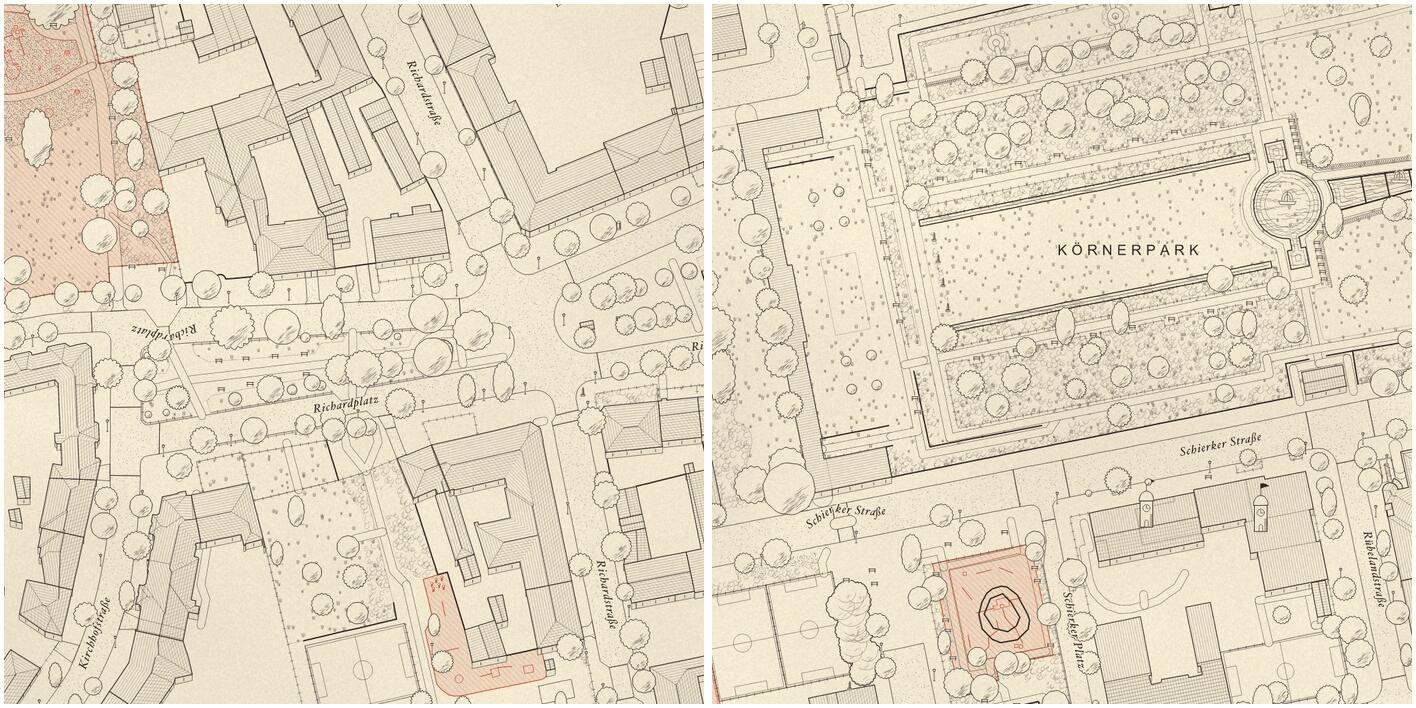
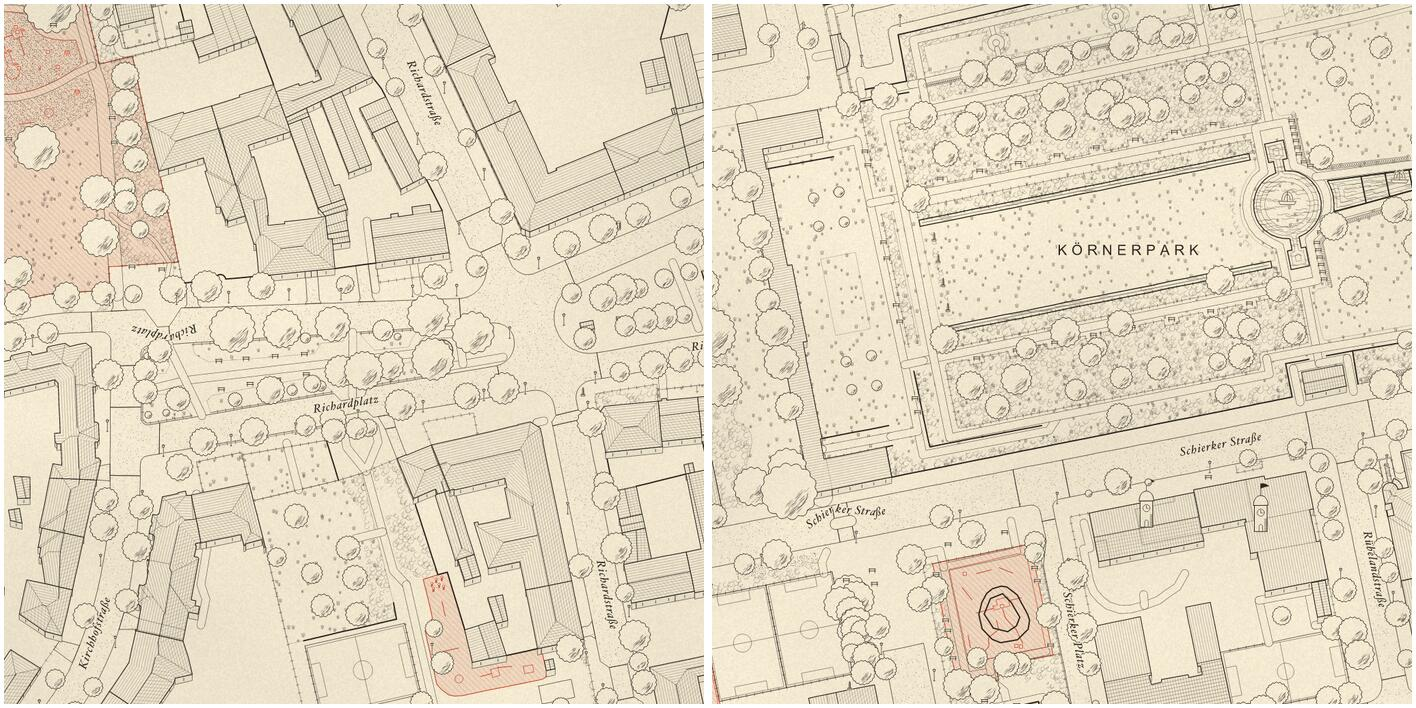
Ink: trees and woodland as individual mockup crowns (step 25)
Solitary trees and woodland use one crown symbol, the one of the first
procedural mockup (restyle_mockup.py, render_ink): bubbly outline of
7–10 lobes, trunk stub, ground tick, shading strokes and a darker accent
arc on the side away from the NW light, painted north → south with a
paper fill per crown so crowns overlap.

Woodland no longer merges into one cloud silhouette with inner arcs;
each crown of a wood is drawn individually, with ±20 % size variance.

draw_tree/draw_forest become draw_crown; legend, current images and
index refreshed; step 25 saved with before/after.

seam_check ink: mean 0.002 %, worst 0.01 %. cargo test: 21 passed.

diff --git a/docs/design-research/index.html b/docs/design-research/index.html
@@ -241,7 +241,17 @@
 <figure><a href="02-fantasy-ink-map/map-sheet-schillerkiez-white.jpg" data-group="ink-sheets" data-caption="Kartenblatt schillerkiez white"><img src="02-fantasy-ink-map/map-sheet-schillerkiez-white.jpg" loading="lazy" alt="Kartenblatt schillerkiez white"></a><figcaption>Kartenblatt schillerkiez white</figcaption></figure>
 <figure><a href="02-fantasy-ink-map/map-sheet-schillerkiez.jpg" data-group="ink-sheets" data-caption="Kartenblatt schillerkiez"><img src="02-fantasy-ink-map/map-sheet-schillerkiez.jpg" loading="lazy" alt="Kartenblatt schillerkiez"></a><figcaption>Kartenblatt schillerkiez</figcaption></figure>
 </div>
-<h3>Verlauf <small>24 Schritte, neueste zuerst</small></h3>
+<h3>Verlauf <small>25 Schritte, neueste zuerst</small></h3>
+<details class="step" open id="ink-25-mockup-trees"><summary>Ink 25 — trees like the first mockup</summary><div class='step-body'><div class='text'><p>Solitary trees and woodland go back to the symbol of the first procedural mockup (<code>mockups/overview.jpg</code>, right column; <code>docs/design-research/tools/restyle_mockup.py</code>, <code>render_ink</code>). Step 14 had merged the woodland into one cloud silhouette with light arcs inside, and the street trees were small upright scalloped crowns. Both looked like a different drawing from the mockups.</p>
+<h4>What changed</h4>
+<ul><li><strong>One crown symbol for everything</strong> (<code>draw_crown</code> in <code>style_ink.rs</code>, replacing <code>draw_tree</code>): a bubbly outline of 7–10 rounded lobes (12 % of the radius), a light world-anchored wobble, paper fill, a trunk stub and a ground tick, as in the mockup.</li><li><strong>Shading on the side away from the light:</strong> short diagonal strokes across the lower-right half (about 1.2 strokes per pixel of radius), plus a darker accent arc just inside the lower-right edge. Light stays north-west.</li><li><strong>Woodland is individual crowns:</strong> the cloud silhouette and its inner arc pattern are gone. Every crown of a wood (scatter from the 5 m cell, scaled by √2 per zoom level below z19, and mapped trees inside <code>landuse=forest|wood</code>) is drawn with the same symbol, sorted north → south, each with its own paper fill, so the crowns in front overlap the ones behind. Crown radii vary by ±20 % per crown so the wood is not a regular grid.</li><li><strong>Unchanged:</strong> conifers (stacked triangles), crown sizes from <code>diameter_crown</code>, the accent (<code>SRK_ACCENT=tree</code> recolours the crown outline and shading), the seam-safe world-anchored randomness.</li></ul>
+<h4>Checks</h4>
+<ul><li><code>seam_check.sh ink</code>: mean 0.002 %, worst 0.01 % (limit 0.1 %).</li><li><code>cargo test --release</code>: 21 passed.</li><li>Speed: scenes c and f at z19, same machine, same run: 74 ms/tile before, 72 ms/tile after.</li><li>Legend "Wald" and the tree samples are rendered by <code>srk-render</code>, so they change with the style (<code>legend.py ink</code> regenerated).</li><li>Compared side by side with the mockup for scenes a and c, and checked at z17 (c and f): the crowns stay readable there.</li></ul><p class='links'><a href='02-fantasy-ink-map/steps/25-mockup-trees/README.md'>README</a></p></div><div class='thumbs'>
+<figure><a href="02-fantasy-ink-map/steps/25-mockup-trees/before-after.jpg" data-group="ink-25-mockup-trees" data-caption="25-mockup-trees · before-after.jpg"><img src="02-fantasy-ink-map/steps/25-mockup-trees/before-after.jpg" loading="lazy" alt="25-mockup-trees · before-after.jpg"></a><figcaption>25-mockup-trees · before-after.jpg</figcaption></figure>
+<figure><a href="02-fantasy-ink-map/steps/25-mockup-trees/sheet.jpg" data-group="ink-25-mockup-trees" data-caption="25-mockup-trees · sheet.jpg"><img src="02-fantasy-ink-map/steps/25-mockup-trees/sheet.jpg" loading="lazy" alt="25-mockup-trees · sheet.jpg"></a><figcaption>25-mockup-trees · sheet.jpg</figcaption></figure>
+<figure><a href="02-fantasy-ink-map/steps/25-mockup-trees/detail.jpg" data-group="ink-25-mockup-trees" data-caption="25-mockup-trees · detail.jpg"><img src="02-fantasy-ink-map/steps/25-mockup-trees/detail.jpg" loading="lazy" alt="25-mockup-trees · detail.jpg"></a><figcaption>25-mockup-trees · detail.jpg</figcaption></figure>
+<figure><a href="02-fantasy-ink-map/steps/25-mockup-trees/sheet-ef.jpg" data-group="ink-25-mockup-trees" data-caption="25-mockup-trees · sheet-ef.jpg"><img src="02-fantasy-ink-map/steps/25-mockup-trees/sheet-ef.jpg" loading="lazy" alt="25-mockup-trees · sheet-ef.jpg"></a><figcaption>25-mockup-trees · sheet-ef.jpg</figcaption></figure>
+</div></div></details>
 <details class="step" open id="ink-24-light-north-west"><summary>Ink 24 — one light, from the north-west</summary><div class='step-body'><div class='text'><p>Until now the ink style had two lights. Roofs from the facets (step 22) and the landscape-architecture style used light from the <strong>north-west</strong> (azimuth 315°). The older ink shading still assumed <strong>south-west</strong>: the cross-hatched half of per-building roofs was the NE half, and the shadows of lifted buildings fell east-north-east. Both now follow the same light as the facets.</p>
 <h4>What changed</h4>
 <ul><li><strong>Per-building roofs</strong> (flat or unroofed buildings, and every lifted building): the cross-hatched shaded half is the side facing the shadow direction, south-east. It was north-east. The facets already hatched the SE/E/S-facing planes, so both kinds of roof now shade alike.</li><li><strong>Lifted buildings</strong> (<code>SRK_INK_OBLIQUE=freestanding</code>): the hatched ground shadow falls south-east, the direction of the light's shadow, instead of east-north-east.</li><li><strong>Bridge parapets</strong> (<code>style_ink_extra.rs</code>): the hatched shadow strokes under a south parapet lean south-east.</li><li><strong>One source for the light:</strong> <code>roof_shapes::LIGHT_AZIMUTH_DEG = 315°</code>, with <code>lit_factor</code> (facets) and <code>shadow_dir_px</code> (pixel direction of cast shadows, south-east). Every ink shading direction is derived from these. A unit test checks that a facet is in shade exactly when it faces the shadow direction, and that this agrees with <code>lit_factor</code>.</li></ul>
@@ -265,7 +275,7 @@
 <figure><a href="02-fantasy-ink-map/steps/22-roof-shapes/detail.jpg" data-group="ink-22-roof-shapes" data-caption="22-roof-shapes · detail.jpg"><img src="02-fantasy-ink-map/steps/22-roof-shapes/detail.jpg" loading="lazy" alt="22-roof-shapes · detail.jpg"></a><figcaption>22-roof-shapes · detail.jpg</figcaption></figure>
 <figure><a href="02-fantasy-ink-map/steps/22-roof-shapes/sheet-ef.jpg" data-group="ink-22-roof-shapes" data-caption="22-roof-shapes · sheet-ef.jpg"><img src="02-fantasy-ink-map/steps/22-roof-shapes/sheet-ef.jpg" loading="lazy" alt="22-roof-shapes · sheet-ef.jpg"></a><figcaption>22-roof-shapes · sheet-ef.jpg</figcaption></figure>
 </div></div></details>
-<details class="step" open id="ink-22-oblique-groups"><summary>Ink 22 — oblique view for small connected groups</summary><div class='step-body'><div class='text'><ul><li>With <code>SRK_INK_OBLIQUE=freestanding</code>, connected clusters of up to 6 buildings and 1800 m² (kind <code>group</code>) are lifted together with one shared lift (the tallest height in the cluster), so semi-detached houses, rows of huts and L-shaped houses get one roof line, and each building keeps its own roof outline.</li><li>No wall is drawn between two members of the same lifted group.</li><li>Clusters are computed in SQL (DBSCAN, 0.8 m) over a window 300 m wider than the tile, so the cluster stats do not depend on the tile drawn. Seam check: default 0.087 %, oblique 0.105 %, unchanged.</li><li>Larger clusters (blocks, city courtyards) and rows stay in plan view; the default render is unchanged.</li></ul>
+<details class="step" id="ink-22-oblique-groups"><summary>Ink 22 — oblique view for small connected groups</summary><div class='step-body'><div class='text'><ul><li>With <code>SRK_INK_OBLIQUE=freestanding</code>, connected clusters of up to 6 buildings and 1800 m² (kind <code>group</code>) are lifted together with one shared lift (the tallest height in the cluster), so semi-detached houses, rows of huts and L-shaped houses get one roof line, and each building keeps its own roof outline.</li><li>No wall is drawn between two members of the same lifted group.</li><li>Clusters are computed in SQL (DBSCAN, 0.8 m) over a window 300 m wider than the tile, so the cluster stats do not depend on the tile drawn. Seam check: default 0.087 %, oblique 0.105 %, unchanged.</li><li>Larger clusters (blocks, city courtyards) and rows stay in plan view; the default render is unchanged.</li></ul>
 <p><strong>Look at:</strong> <code>oblique-groups.jpg</code> (allotment huts and garages, scene C, z19), <code>sheet.jpg</code> (scene D: dense blocks stay in plan).</p><p class='links'><a href='02-fantasy-ink-map/steps/22-oblique-groups/README.md'>README</a></p></div><div class='thumbs'>
 <figure><a href="02-fantasy-ink-map/steps/22-oblique-groups/sheet.jpg" data-group="ink-22-oblique-groups" data-caption="22-oblique-groups · sheet.jpg"><img src="02-fantasy-ink-map/steps/22-oblique-groups/sheet.jpg" loading="lazy" alt="22-oblique-groups · sheet.jpg"></a><figcaption>22-oblique-groups · sheet.jpg</figcaption></figure>
 <figure><a href="02-fantasy-ink-map/steps/22-oblique-groups/detail.jpg" data-group="ink-22-oblique-groups" data-caption="22-oblique-groups · detail.jpg"><img src="02-fantasy-ink-map/steps/22-oblique-groups/detail.jpg" loading="lazy" alt="22-oblique-groups · detail.jpg"></a><figcaption>22-oblique-groups · detail.jpg</figcaption></figure>

diff --git a/rust/srk-render/src/style_ink.rs b/rust/srk-render/src/style_ink.rs
@@ -410,7 +410,7 @@ pub fn render(client: &mut Client, prep: &mut PreparedCache, extent: RenderExten
                 extra::draw_furniture(&mut pm, k, x, y, s, lw, if on { accent } else { ink(0.9) }, paper)
             }
             1 => draw_conifer(&ctx, &mut pm, x, y, r, id, lw, paper, if accent_cat == "tree" { accent } else { ink(1.0) }),
-            _ => draw_tree(&ctx, &mut pm, x, y, r, id, lw, paper, if accent_cat == "tree" { accent } else { ink(1.0) }),
+            _ => draw_crown(&ctx, &mut pm, (x, y, r, id), lw, paper, if accent_cat == "tree" { accent } else { ink(1.0) }),
         }
     }
 
@@ -897,52 +897,59 @@ fn draw_spire(pm: &mut Pixmap, cx: f32, base: f32, s: f32, lw: f32, paper: Color
     }
 }
 
-fn draw_tree(ctx: &Ctx, pm: &mut Pixmap, x: f32, y: f32, r: f32, id: i64, lw: f32, paper: Color, pen: Color) {
+/// One upright crown as in the ink mockup (`restyle_mockup.py`, `render_ink`): a bubbly outline
+/// around (x, y − 0.75r), a short trunk, a ground tick, shading strokes on the lower-right half
+/// (away from the NW light) and a darker accent arc inside the lower-right edge. The paper fill
+/// hides whatever lies behind, so crowns painted north → south overlap like a wood.
+fn draw_crown(ctx: &Ctx, pm: &mut Pixmap, at: (f32, f32, f32, i64), lw: f32, paper: Color, pen: Color) {
+    let (x, y, r, id) = at;
     let r = r.max(2.5);
-    let cx = x;
-    let cy = y - r * 0.85;
-    // ground shadow tick
+    let (cx, cy) = (x, y - 0.75 * r);
     let mut g = PathBuilder::new();
-    g.move_to(x - r * 0.45, y + 0.5);
-    g.line_to(x + r * 0.75, y + 0.5);
+    g.move_to(x - r * 0.5, y + 0.5);
+    g.line_to(x + r * 0.7, y + 0.5);
     if let Some(p) = g.finish() {
-        line(pm, &p, &paint(ink(0.55)), &stroke(lw * 0.8), None);
+        line(pm, &p, &paint(ink(0.6)), &stroke(lw * 0.8), None);
     }
-    // trunk
     let mut t = PathBuilder::new();
     t.move_to(x, y);
-    t.line_to(x, cy + r * 0.5);
+    t.line_to(x, cy + r * 0.4);
     if let Some(p) = t.finish() {
         line(pm, &p, &paint(ink(0.95)), &stroke(lw * 1.2), None);
     }
-    let bumps = 7 + (rand01(id, 3) * 5.0) as u32;
-    let shape = (rand01(id, 8) * 10.0) as u32; // 0–5 scalloped, 6–8 round, 9 tall
-    let pts: Vec<(f32, f32)> = match shape {
-        6..=8 => scallop_pts(cx, cy, r, 5, 0.05, rand01(id, 4) * std::f32::consts::TAU),
-        9 => scallop_pts(cx, cy - r * 0.35, r, bumps, 0.12, rand01(id, 4) * std::f32::consts::TAU)
-            .into_iter()
-            .map(|(px, py)| (cx + (px - cx) * 0.7, (cy - r * 0.35) + (py - (cy - r * 0.35)) * 1.35))
-            .collect(),
-        _ => scallop_pts(cx, cy, r, bumps, 0.16, rand01(id, 4) * std::f32::consts::TAU),
-    };
-    let pts = wobble_pts(ctx, &pts, 0.3, 4.0, id as u64);
-    if let Some(p) = pts_path(&pts, true) {
-        fill(pm, &p, &paint(paper), None);
-        // shading strokes lower right, clipped by drawing inside the crown only
-        let mut s = PathBuilder::new();
-        let n = (r * 1.1) as i32 + 3;
-        for i in 0..n {
-            let a = -0.2 + 1.9 * rand01(id, 10 + i as u64);
-            let rr = r * (0.35 + 0.5 * rand01(id, 40 + i as u64));
-            let (px, py) = (cx + rr * a.cos(), cy + rr * a.sin());
-            s.move_to(px, py);
-            s.line_to(px - r * 0.2, py + r * 0.16);
-        }
-        if let Some(sp) = s.finish() {
-            line(pm, &sp, &paint(ink(0.6)), &stroke(lw * 0.6), None);
-        }
-        line(pm, &p, &paint(pen), &stroke(lw * 1.05), None);
+    let bumps = 7 + (rand01(id, 3) * 4.0) as u32; // 7–10 lobes: bubbles, not ripples
+    let phase = rand01(id, 4) * std::f32::consts::TAU;
+    let pts: Vec<(f32, f32)> = (0..72)
+        .map(|i| {
+            let t = i as f32 / 72.0 * std::f32::consts::TAU;
+            let rr = r * (1.0 + 0.12 * (bumps as f32 * t + phase).sin().abs());
+            (cx + rr * t.cos(), cy + rr * t.sin())
+        })
+        .collect();
+    let pts = wobble_pts(ctx, &pts, 0.15, 4.0, id as u64);
+    let Some(p) = pts_path(&pts, true) else { return };
+    fill(pm, &p, &paint(paper), None);
+    let mut s = PathBuilder::new();
+    for i in 0..(r * 1.2) as u32 + 2 {
+        let a = -0.2 + 1.8 * rand01(id, 10 + i as u64);
+        let rr = r * (0.35 + 0.5 * rand01(id, 40 + i as u64));
+        let (px, py) = (cx + rr * a.cos(), cy + rr * a.sin());
+        s.move_to(px, py);
+        s.line_to(px - r * 0.18, py + r * 0.18);
     }
+    if let Some(sp) = s.finish() {
+        line(pm, &sp, &paint(ink(0.75)), &stroke(lw * 0.6), None);
+    }
+    let mut acc = PathBuilder::new();
+    for k in 0..=6 {
+        let a = 0.1 + 1.0 * k as f32 / 6.0;
+        let (px, py) = (cx + 0.74 * r * a.cos(), cy + 0.74 * r * a.sin());
+        if k == 0 { acc.move_to(px, py) } else { acc.line_to(px, py) }
+    }
+    if let Some(ap) = acc.finish() {
+        line(pm, &ap, &paint(ink(0.85)), &stroke(lw * 0.9), None);
+    }
+    line(pm, &p, &paint(pen), &stroke(lw * 1.05), None);
 }
 
 fn draw_conifer(ctx: &Ctx, pm: &mut Pixmap, x: f32, y: f32, r: f32, id: i64, lw: f32, paper: Color, pen: Color) {
@@ -1051,52 +1058,13 @@ fn draw_bench(pm: &mut Pixmap, x: f32, y: f32, s: f32, lw: f32, pen: Color, pape
     }
 }
 
+/// Woodland: the same individual crowns as solitary trees, densely packed, painted north → south
+/// so every crown's paper fill hides the crowns behind it (no merged silhouette).
 fn draw_forest(ctx: &Ctx, pm: &mut Pixmap, crowns: &mut [(f32, f32, f32, i64)], lw: f32, paper: Color) {
-    if crowns.is_empty() {
-        return;
-    }
     crowns.sort_by(|a, b| a.1.total_cmp(&b.1));
-    let shape = |&(x, y, r, id): &(f32, f32, f32, i64)| {
-        let pts = scallop_pts(x, y - r * 0.7, r, 7 + (rand01(id, 3) * 4.0) as u32, 0.16, rand01(id, 4) * std::f32::consts::TAU);
-        pts_path(&wobble_pts(ctx, &pts, 0.3, 4.0, id as u64), true)
-    };
-    let mut all = PathBuilder::new();
-    for c in crowns.iter() {
-        if let Some(p) = shape(c) {
-            all.push_path(&p);
-        }
-    }
-    let Some(all) = all.finish() else { return };
-    // 1) heavy outline of every crown, 2) paper fill of every crown on top → only the silhouette stays
-    line(pm, &all, &paint(ink(1.0)), &stroke(lw * 2.6), None);
-    // Winding, not EvenOdd: overlaps must stay filled or the inner outlines shine through
-    pm.fill_path(&all, &paint(paper), tiny_skia::FillRule::Winding, tiny_skia::Transform::identity(), None);
-    // 3) inside: an arc across the lower half of each crown (its side away from the NW light),
-    // plus a few shading strokes on the lower right
-    let mut arcs = PathBuilder::new();
-    let mut shading = PathBuilder::new();
     for &(x, y, r, id) in crowns.iter() {
-        let cy = y - r * 0.7;
-        let a0 = -0.3 + rand01(id, 5) * 0.4;
-        let steps = 10;
-        for k in 0..=steps {
-            let a = a0 + (k as f32 / steps as f32) * 2.4;
-            let (px, py) = (x + r * a.cos(), cy + r * a.sin());
-            if k == 0 { arcs.move_to(px, py) } else { arcs.line_to(px, py) }
-        }
-        for k in 0..3 {
-            let a = 0.3 + 1.2 * rand01(id, 20 + k);
-            let rr = r * (0.45 + 0.35 * rand01(id, 30 + k));
-            let (px, py) = (x + rr * a.cos(), cy + rr * a.sin());
-            shading.move_to(px, py);
-            shading.line_to(px - r * 0.22, py + r * 0.15);
-        }
-    }
-    if let Some(p) = arcs.finish() {
-        line(pm, &p, &paint(ink(0.55)), &stroke(lw * 0.7), None);
-    }
-    if let Some(p) = shading.finish() {
-        line(pm, &p, &paint(ink(0.45)), &stroke(lw * 0.6), None);
+        // crowns differ in size, as the mockup's packing gives them
+        draw_crown(ctx, pm, (x, y, r * (0.8 + 0.4 * rand01(id, 61)), id), lw, paper, ink(1.0));
     }
 }
 

diff --git a/docs/design-research/02-fantasy-ink-map/steps/25-mockup-trees/README.md b/docs/design-research/02-fantasy-ink-map/steps/25-mockup-trees/README.md
@@ -1,0 +1,18 @@
+# Ink 25 — trees like the first mockup
+
+Solitary trees and woodland go back to the symbol of the first procedural mockup ([`mockups/overview.jpg`](../../mockups/overview.jpg), right column; `docs/design-research/tools/restyle_mockup.py`, `render_ink`). Step 14 had merged the woodland into one cloud silhouette with light arcs inside, and the street trees were small upright scalloped crowns. Both looked like a different drawing from the mockups.
+
+## What changed
+
+- **One crown symbol for everything** (`draw_crown` in `style_ink.rs`, replacing `draw_tree`): a bubbly outline of 7–10 rounded lobes (12 % of the radius), a light world-anchored wobble, paper fill, a trunk stub and a ground tick, as in the mockup.
+- **Shading on the side away from the light:** short diagonal strokes across the lower-right half (about 1.2 strokes per pixel of radius), plus a darker accent arc just inside the lower-right edge. Light stays north-west.
+- **Woodland is individual crowns:** the cloud silhouette and its inner arc pattern are gone. Every crown of a wood (scatter from the 5 m cell, scaled by √2 per zoom level below z19, and mapped trees inside `landuse=forest|wood`) is drawn with the same symbol, sorted north → south, each with its own paper fill, so the crowns in front overlap the ones behind. Crown radii vary by ±20 % per crown so the wood is not a regular grid.
+- **Unchanged:** conifers (stacked triangles), crown sizes from `diameter_crown`, the accent (`SRK_ACCENT=tree` recolours the crown outline and shading), the seam-safe world-anchored randomness.
+
+## Checks
+
+- `seam_check.sh ink`: mean 0.002 %, worst 0.01 % (limit 0.1 %).
+- `cargo test --release`: 21 passed.
+- Speed: scenes c and f at z19, same machine, same run: 74 ms/tile before, 72 ms/tile after.
+- Legend "Wald" and the tree samples are rendered by `srk-render`, so they change with the style (`legend.py ink` regenerated).
+- Compared side by side with the mockup for scenes a and c, and checked at z17 (c and f): the crowns stay readable there.

diff --git a/docs/design-research/02-fantasy-ink-map/README.md b/docs/design-research/02-fantasy-ink-map/README.md
@@ -38,11 +38,11 @@ Only landmarks (`church`, `chapel`, `cathedral`: one spire on their smallest pol
 | Streets | carriageway outline + sparse stipple; park paths as double lines; sidewalks are the paper between kerb and house |
 | Lawn / shrubs / sand | grass tufts / open scribbles / stipple, densities constant across zoom (`zcell`) |
 | Water (incl. pools) | heavy bank line, three shore ripples, short wave strokes |
-| Forest | one cloud silhouette: heavy outline of all crowns, paper fill on top, light inner arcs and shading |
+| Forest | individual crowns, the same symbol as the trees, densely overlapping and painted north → south with a paper fill per crown, sizes varying ±20 % ([step 25](steps/25-mockup-trees/)) |
 | Slopes | hachures on embankments and cliffs (alternating long/short strokes downhill) |
 | Fences / walls / hedges | `+-+-` ticks / heavy line / chain of loops |
 | Cemeteries | scattered small crosses |
-| Trees | upright scalloped / round / tall crowns (by OSM id), trunk, shading strokes, ground tick; conifers as stacked triangles |
+| Trees | bubbly crowns as in the first mockup ([`overview.jpg`](mockups/overview.jpg)): outline of 7–10 lobes, trunk stub, shading strokes and a darker accent arc on the side away from the NW light, ground tick, painted north → south with paper fill; conifers as stacked triangles ([step 25](steps/25-mockup-trees/)) |
 | Pitches | procedural line markings from `pitch_markings` |
 | Railways | double line with cross ties; carriageways are paper-filled so bridges occlude the tracks |
 | Bridges | `bridge` polygons that cross rails, water or a lower road: paper deck over what lies below, heavy parapets along the long sides with flared wing walls, hatched shadow under a south parapet ([step 20](steps/20-bridges-landmarks-furniture/), [21](steps/21-real-bridges-icons-water-accent/)) |
